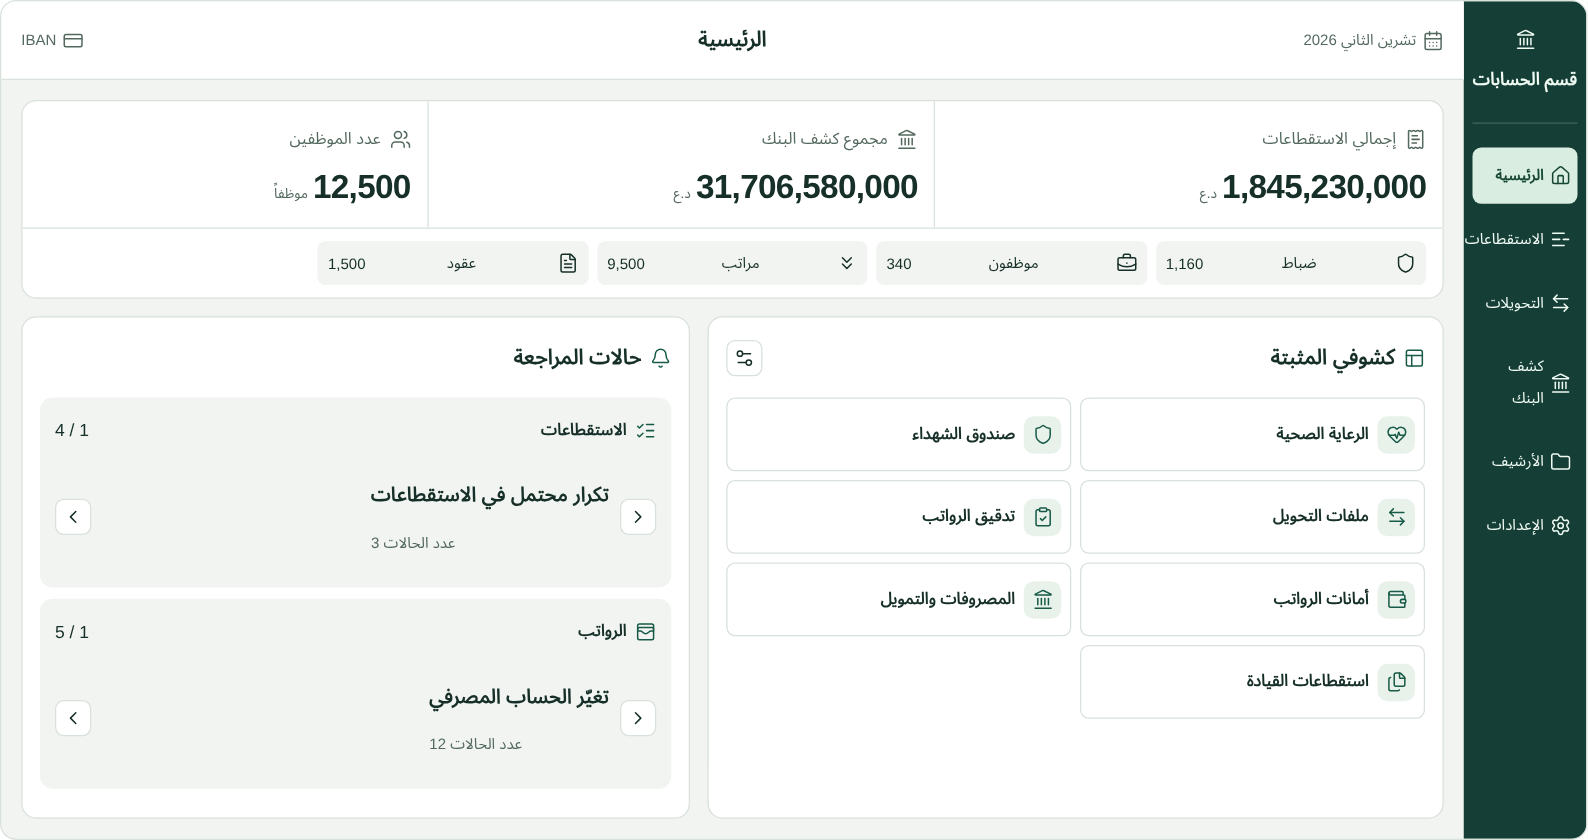
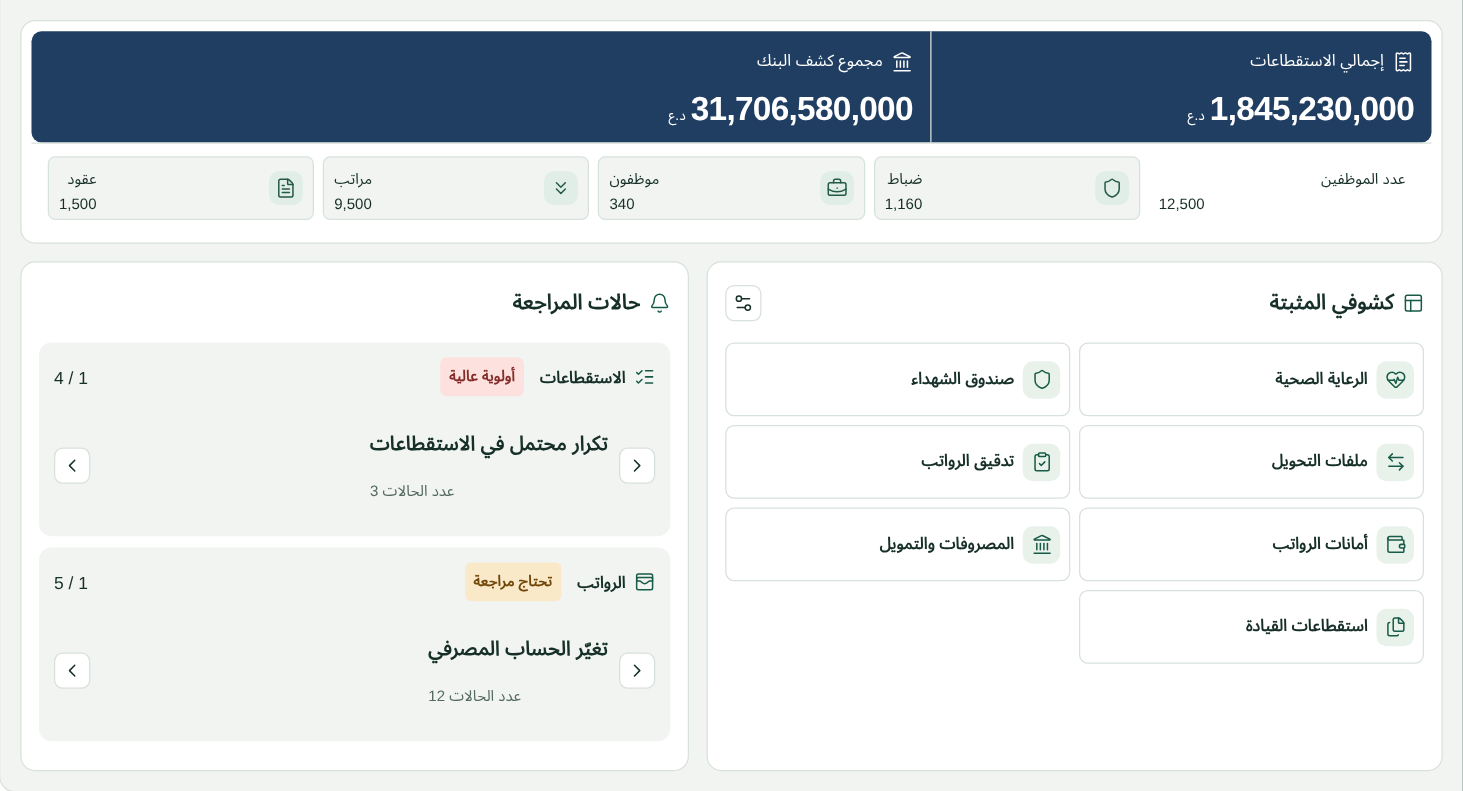
Emphasize monthly totals and prioritize home review cards
- Distinguish the two financial totals from rank counts in the Windows summary.
- Label high-priority, review and informational cases on both home screens and keep their existing drill-down actions.

diff --git a/SalaryApp/HomeAccounting.swift b/SalaryApp/HomeAccounting.swift
@@ -1,11 +1,32 @@
 import SwiftUI
 
+enum HomeReviewPriority: Int {
+    case high, attention, information
+
+    var label: String {
+        switch self {
+        case .high: tr("أولوية عالية", "High priority")
+        case .attention: tr("تحتاج مراجعة", "Needs review")
+        case .information: tr("للاطلاع", "For information")
+        }
+    }
+
+    var color: Color {
+        switch self {
+        case .high: .red
+        case .attention: .orange
+        case .information: .blue
+        }
+    }
+}
+
 /// حالة واحدة من نتائج التدقيق، وتفتح موضعها داخل التدقيق مباشرة.
 struct HomeReviewItem: Identifiable {
     let id: String
     let title: String
     let detail: String
     let symbol: String
+    let priority: HomeReviewPriority
     let route: HomeRoute
 }
 
@@ -112,30 +133,31 @@ struct HomeAccounting<Shortcuts: View>: View {
             if count > 0 {
                 items.append(HomeReviewItem(id: "entity-" + kind.rawValue, title: kind.title,
                                             detail: tr("\(Num.format(count)) جهة · \(month.name)", "\(count) entities · \(month.name)"),
-                                            symbol: "building.columns", route: .entityAlert(kind)))
+                                            symbol: "building.columns", priority: .attention, route: .entityAlert(kind)))
             }
         }
         if !audit.salaryAvailable {
             items.append(HomeReviewItem(id: "salary-unavailable",
                                         title: tr("تدقيق الرواتب غير مكتمل", "Payroll audit incomplete"),
                                         detail: tr("افتح التدقيق لمراجعة بيانات هذا الشهر", "Open the audit to review this month"),
-                                        symbol: "exclamationmark.triangle", route: .salary))
+                                        symbol: "exclamationmark.triangle", priority: .attention, route: .salary))
         }
         if audit.deductionComparisonBlocked {
             items.append(HomeReviewItem(id: "deduction-comparison-blocked",
                                         title: tr("مقارنة الاستقطاعات تحتاج مراجعة", "Deduction comparison needs review"),
                                         detail: tr("أحد الشهرين بلا قيود استقطاع", "One of the months has no deduction entries"),
-                                        symbol: "exclamationmark.triangle", route: .deductions))
+                                        symbol: "exclamationmark.triangle", priority: .attention, route: .deductions))
         }
         for issue in audit.issues where issue.id != "bank" {
             let title = issue.count > 0 ? tr("\(issue.title) · \(Num.format(issue.count))", "\(issue.title) · \(issue.count)") : issue.title
             let destination: HomeRoute = issue.route == "salary"
                 ? (issue.count > 0 ? .salaryCheck(issue.id) : .salary)
                 : (issue.count > 0 ? .deductionCheck(issue.id) : .deductions)
+            let priority: HomeReviewPriority = ["totals", "duplicateDeductions", "iban", "calc", "duplicates", "ids"].contains(issue.id) ? .high : .attention
             items.append(HomeReviewItem(id: "check-\(issue.route)-\(issue.id)",
                                         title: title,
                                         detail: issue.detail, symbol: "exclamationmark.triangle",
-                                        route: destination))
+                                        priority: priority, route: destination))
         }
         func addSalary(_ kind: SalaryChangeKind, _ count: Int) {
             guard count > 0 else { return }
@@ -144,7 +166,7 @@ struct HomeAccounting<Shortcuts: View>: View {
                                         detail: previous.map { tr("مقارنة بـ\($0.name)", "Compared with \($0.name)") }
                                             ?? tr("متغيرات الرواتب", "Payroll changes"),
                                         symbol: kind == .bank ? "creditcard" : "arrow.left.arrow.right",
-                                        route: .salaryChange(kind)))
+                                        priority: [.bank, .removed, .net].contains(kind) ? .attention : .information, route: .salaryChange(kind)))
         }
         func addDeduction(_ kind: DeductionGroupKind, _ count: Int) {
             guard count > 0 else { return }
@@ -152,7 +174,7 @@ struct HomeAccounting<Shortcuts: View>: View {
                                         title: tr("\(kind.reportTitle) · \(Num.format(count))", "\(kind.reportTitle) · \(count)"),
                                         detail: previous.map { tr("مقارنة بـ\($0.name)", "Compared with \($0.name)") }
                                             ?? tr("متغيرات الاستقطاعات", "Deduction changes"),
-                                        symbol: "minus.circle", route: .deductionChange(kind)))
+                                        symbol: "minus.circle", priority: kind == .started ? .information : .attention, route: .deductionChange(kind)))
         }
         addSalary(.bank, audit.bank)
         addSalary(.removed, audit.removed)
@@ -164,7 +186,7 @@ struct HomeAccounting<Shortcuts: View>: View {
         for kind in SalaryChangeKind.profileKinds { addSalary(kind, audit.profileCounts[kind.rawValue] ?? 0) }
         addSalary(.added, audit.added)
         addDeduction(.started, audit.started)
-        return items
+        return items.sorted { $0.priority.rawValue < $1.priority.rawValue }
     }
 
     @ViewBuilder
@@ -192,7 +214,11 @@ struct HomeAccounting<Shortcuts: View>: View {
                     Button { openRoute(item.route) } label: {
                         VStack(alignment: .leading, spacing: 7) {
                             HStack {
-                                Image(systemName: item.symbol).foregroundStyle(accent)
+                                Label(item.priority.label, systemImage: item.symbol)
+                                    .font(.caption2.weight(.semibold))
+                                    .foregroundStyle(.primary)
+                                    .padding(.horizontal, 7).padding(.vertical, 3)
+                                    .background(item.priority.color.opacity(0.20), in: Capsule())
                                 Spacer()
                                 Image(systemName: "chevron.forward").font(.caption2).foregroundStyle(.secondary)
                             }

diff --git a/windows/Desktop/HomeDashboard.cs b/windows/Desktop/HomeDashboard.cs
@@ -86,7 +86,10 @@ public partial class MainWindow
         var header=new DockPanel();
         DockPanel.SetDock(position,Dock.Right);
         header.Children.Add(position);
-        header.Children.Add(Bar(Glyph(section=="الرواتب"?"\uE8C7":"\uE8FD"),Text(section,14,true)));
+        var priorityLabel=Text("",12,true);
+        var badge=new Border{Child=priorityLabel,CornerRadius=new CornerRadius(5),Padding=new Thickness(6,1,6,1),
+            Margin=new Thickness(5,0,0,0),VerticalAlignment=VerticalAlignment.Center,Visibility=Visibility.Collapsed};
+        header.Children.Add(Bar(Glyph(section=="الرواتب"?"\uE8C7":"\uE8FD"),Text(section,14,true),badge));
         var content=Column(title,detail);
         var subject=HomeAction(section,()=>{if(cases.Count>0)Guard(cases[index].Open);});
         subject.HorizontalContentAlignment=HorizontalAlignment.Stretch;
@@ -117,11 +120,20 @@ public partial class MainWindow
                 return;
             }
             var item=cases[index];
+            var (caption,tint,ink)=item.Priority switch{
+                ReviewPriority.High=>("أولوية عالية","#FCE1DF","#842D29"),
+                ReviewPriority.Attention=>("تحتاج مراجعة","#F9E9C8","#714708"),
+                _=>("للاطلاع","#DBEAF8","#224F78")
+            };
+            badge.Visibility=Visibility.Visible;
+            badge.Background=SystemParameters.HighContrast?SystemColors.WindowBrush:BrushOf(tint);
+            priorityLabel.Foreground=SystemParameters.HighContrast?SystemColors.WindowTextBrush:BrushOf(ink);
+            priorityLabel.Text=caption;
             title.Text=item.Title;detail.Text=item.Detail;
             position.Text=$"{index+1} / {cases.Count}";
             AutomationProperties.SetName(subject,item.Title);
             AutomationProperties.SetAutomationId(subject,"HomeReview-"+item.Key);
-            AutomationProperties.SetHelpText(subject,item.Detail);
+            AutomationProperties.SetHelpText(subject,caption+" · "+item.Detail);
             subject.ToolTip=item.Title+" · "+item.Detail;
         }
         void Move(int step){
@@ -156,33 +168,55 @@ public partial class MainWindow
         var board=new Grid();
         board.RowDefinitions.Add(new(){Height=GridLength.Auto});
         board.RowDefinitions.Add(new(){Height=new GridLength(1,GridUnitType.Star)});
-        var metrics=new UniformGrid{Columns=3};
+        var metrics=new UniformGrid{Columns=2};
+        var band=new Border{Background=SystemParameters.HighContrast?SystemColors.WindowBrush:BrushOf("#203E61"),
+            CornerRadius=new CornerRadius(8),Padding=new Thickness(4,5,4,5),Child=metrics};
+        var onBand=SystemParameters.HighContrast?SystemColors.WindowTextBrush:Brushes.White;
         TextBlock Metric(string label,string icon){
-            var value=Text("—",20,true);
-            var cell=Column(Bar(Glyph(icon),Text(label,14)),value);
-            cell.Margin=new Thickness(8,3,8,5);
-            metrics.Children.Add(cell);
+            var caption=Text(label,14);caption.Foreground=onBand;
+            var glyph=Glyph(icon);glyph.Foreground=onBand;glyph.FontSize=16;
+            var value=Text("—",22,true);value.Foreground=onBand;
+            var cell=Column(Bar(glyph,caption),value);
+            metrics.Children.Add(new Border{Child=cell,Padding=new Thickness(12,0,12,0),
+                BorderBrush=SystemParameters.HighContrast?onBand:BrushOf("#5A728B"),
+                BorderThickness=new Thickness(metrics.Children.Count==0?0:1,0,0,0)});
             return value;
         }
         var deduction=Metric("إجمالي الاستقطاعات","\uE8FD");
         var bank=Metric("مجموع كشف البنك","\uE825");
-        var employees=Metric("عدد الموظفين","\uE716");
+        var employees=Text("—",16,true);
         var ranks=new UniformGrid{Columns=4};
         string[] labels=["ضباط","موظفون","مراتب","عقود"];
-        string[] icons=["\uEA18","\uE821","\uE70D","\uE8A5"];
+        string[] icons=["\uEA18","\uE821","","\uE8A5"];
         var rankMenus=new ContextMenu[labels.Length];
         var counts=labels.Select((label,i)=>{
             var count=Text("—",14,true);
             var menu=new ContextMenu{FlowDirection=FlowDirection.RightToLeft,Placement=PlacementMode.Bottom};
             rankMenus[i]=menu;
             var chip=HomeAction("الرتب · "+label,()=>{if(menu.HasItems)menu.IsOpen=true;});
-            chip.Content=Bar(Glyph(icons[i]),Text(label,13),count);
+            var ink=SystemParameters.HighContrast?SystemColors.WindowTextBrush:BrushOf("#245946");
+            FrameworkElement symbol;
+            if(i==2){
+                symbol=new System.Windows.Shapes.Path{Data=Geometry.Parse("M 2,3 L 9,8 L 16,3 M 2,9 L 9,14 L 16,9"),
+                    Stroke=ink,StrokeThickness=2,StrokeLineJoin=PenLineJoin.Round,Width=18,Height=17};
+            }else{
+                var glyph=Glyph(icons[i]);glyph.Margin=new Thickness(0);glyph.FontSize=17;glyph.Foreground=ink;
+                glyph.HorizontalAlignment=HorizontalAlignment.Center;symbol=glyph;
+            }
+            var emblem=new Border{Width=28,Height=28,CornerRadius=new CornerRadius(8),Child=symbol,VerticalAlignment=VerticalAlignment.Center,
+                Background=SystemParameters.HighContrast?SystemColors.WindowBrush:BrushOf("#E0EEE7")};
+            var text=Column(Text(label,12),count);text.Margin=new Thickness(5,0,5,0);
+            chip.Content=Bar(emblem,text);
             chip.ToolTip="تفاصيل الرتب · "+label;
             menu.PlacementTarget=chip;
             ranks.Children.Add(chip);
             return count;
         }).ToArray();
-        var summary=Column(metrics,ranks);
+        var people=new DockPanel{Margin=new Thickness(0,4,0,0)};
+        var staff=Column(Text("عدد الموظفين",12),employees);
+        staff.VerticalAlignment=VerticalAlignment.Center;staff.Margin=new Thickness(6,0,10,0);
+        DockPanel.SetDock(staff,Dock.Left);people.Children.Add(staff);people.Children.Add(ranks);
+        var summary=Column(band,people);
         if(revision==null)summary.Children.Add(HomeAction("استيراد نسخة",()=>_=ImportBackup(),"\uE8E5"));
         var banner=Box(summary);banner.Padding=new Thickness(10,6,10,6);
         board.Children.Add(banner);

diff --git a/windows/Desktop/HomeReviews.cs b/windows/Desktop/HomeReviews.cs
@@ -7,7 +7,15 @@ namespace AnbarPayroll.Desktop;
 public partial class MainWindow
 {
     enum ReviewSection { Payroll, Deductions }
-    sealed record HomeReview(ReviewSection Section,string Key,string Title,string Detail,Action Open);
+    enum ReviewPriority { High, Attention, Information }
+    sealed record HomeReview(ReviewSection Section,string Key,string Title,string Detail,ReviewPriority Priority,Action Open);
+    static ReviewPriority PayrollPriority(string kind)
+    {
+        if(A.SalaryReviewDiagnosis.Severe.Contains(kind))return ReviewPriority.High;
+        if(A.SalaryReviewDiagnosis.Staff.Contains(kind) || A.SalaryReviewDiagnosis.Review.Contains(kind) ||
+           kind is "تغيّر الحساب" or "خارج من الرواتب" or "تغيّر الصافي")return ReviewPriority.Attention;
+        return ReviewPriority.Information;
+    }
     static string ReviewTitle(string kind) => kind switch {
         "جديد في الرواتب"=>"الموظفون الجدد", "خارج من الرواتب"=>"الخارجون من الرواتب",
         "تغيّر الصافي"=>"تغيّر صافي الراتب", "تغيّرت الرتبة"=>"تغيّر الرتبة", "تغيّر الحساب"=>"تغيّر الحساب المصرفي",
@@ -57,24 +65,26 @@ public partial class MainWindow
         foreach(var group in alerts.GroupBy(r=>r.Title)){
             var entities=group.ToArray();
             var detail="عدد الجهات "+Arabic.Money(entities.Length);
-            items.Add(new(ReviewSection.Deductions,"agency|"+group.Key,group.Key,detail,()=>AgencyReview(entities)));
+            items.Add(new(ReviewSection.Deductions,"agency|"+group.Key,group.Key,detail,ReviewPriority.Attention,()=>AgencyReview(entities)));
         }
         if(deductions.Blocked)
-            items.Add(new(ReviewSection.Deductions,"deduction-check","مقارنة الاستقطاعات تحتاج مراجعة","تحتاج المقارنة إلى شهرين متحققين من الاستقطاعات.",()=>Activate(AgencyPage)));
+            items.Add(new(ReviewSection.Deductions,"deduction-check","مقارنة الاستقطاعات تحتاج مراجعة","تحتاج المقارنة إلى شهرين متحققين من الاستقطاعات.",ReviewPriority.Attention,()=>Activate(AgencyPage)));
         foreach(var (title,rows) in deductions.Rows)
-            items.Add(new(ReviewSection.Deductions,"deduction|"+title,title,"عدد الحالات "+Arabic.Money(rows.Count),()=>DeductionReviewDetails(title,rows)));
+            items.Add(new(ReviewSection.Deductions,"deduction|"+title,title,"عدد الحالات "+Arabic.Money(rows.Count),
+                title=="تكرار محتمل في الاستقطاعات"?ReviewPriority.High:title=="الاستقطاعات الجديدة"?ReviewPriority.Information:ReviewPriority.Attention,
+                ()=>DeductionReviewDetails(title,rows)));
         if(!hasSalary)
-            items.Add(new(ReviewSection.Payroll,"salary-missing","تدقيق الرواتب غير مكتمل",month.Name+"　·　فتح إعدادات الاستيراد",()=>Activate("الإعدادات")));
+            items.Add(new(ReviewSection.Payroll,"salary-missing","تدقيق الرواتب غير مكتمل",month.Name+"　·　فتح إعدادات الاستيراد",ReviewPriority.Attention,()=>Activate("الإعدادات")));
         else if(audit==null||audit.EmployeeCount==0||audit.PreviousMonth==null)
-            items.Add(new(ReviewSection.Payroll,"salary-check","تدقيق الرواتب غير مكتمل",month.Name+"　·　فتح تدقيق الرواتب",()=>Activate(AuditName)));
+            items.Add(new(ReviewSection.Payroll,"salary-check","تدقيق الرواتب غير مكتمل",month.Name+"　·　فتح تدقيق الرواتب",ReviewPriority.Attention,()=>Activate(AuditName)));
         if(audit!=null){
             foreach(var group in audit.Rows.GroupBy(r=>ReviewTitle(r.Kind)).OrderByDescending(g=>g.Count()).ThenBy(g=>g.Key,StringComparer.Ordinal)){
                 var kind=group.Key;
-                items.Add(new(ReviewSection.Payroll,"salary|"+kind,kind,"عدد الحالات "+Arabic.Money(group.Count()),()=>{auditFilter=kind;Activate(AuditName);}));
+                items.Add(new(ReviewSection.Payroll,"salary|"+kind,kind,"عدد الحالات "+Arabic.Money(group.Count()),PayrollPriority(group.First().Kind),()=>{auditFilter=kind;Activate(AuditName);}));
             }
         }
 
-        return items.OrderBy(item=>item.Key switch {
+        return items.OrderBy(item=>item.Priority).ThenBy(item=>item.Key switch {
             "salary-missing" or "salary-check" or "deduction-check"=>0,
             "salary|IBAN" or "salary|خطأ في الحساب" or "salary|مطابقة المجاميع"
                 or "deduction|تكرار محتمل في الاستقطاعات"=>1,

diff --git a/windows/Desktop/MainWindow.xaml.cs b/windows/Desktop/MainWindow.xaml.cs
@@ -637,7 +637,12 @@ public partial class MainWindow : Window
                         if(next.Visibility!=Visibility.Visible)continue;
                         var card=(Grid)next.Parent;
                         var subject=Controls<Button>(card).Single(b=>AutomationProperties.GetAutomationId(b).StartsWith("HomeReview-"));
-                        string Current()=>AutomationProperties.GetAutomationId(subject);
+                        string Current(){
+                            if(!new[]{"أولوية عالية","تحتاج مراجعة","للاطلاع"}.Any(level=>
+                                AutomationProperties.GetHelpText(subject).StartsWith(level+" · ",StringComparison.Ordinal)))
+                                throw new InvalidDataException("مستوى أهمية الحالة غير متاح عند تبديل بطاقة المراجعة.");
+                            return AutomationProperties.GetAutomationId(subject);
+                        }
                         string first=Current();
                         var seen=new HashSet<string>{first};
                         do{
